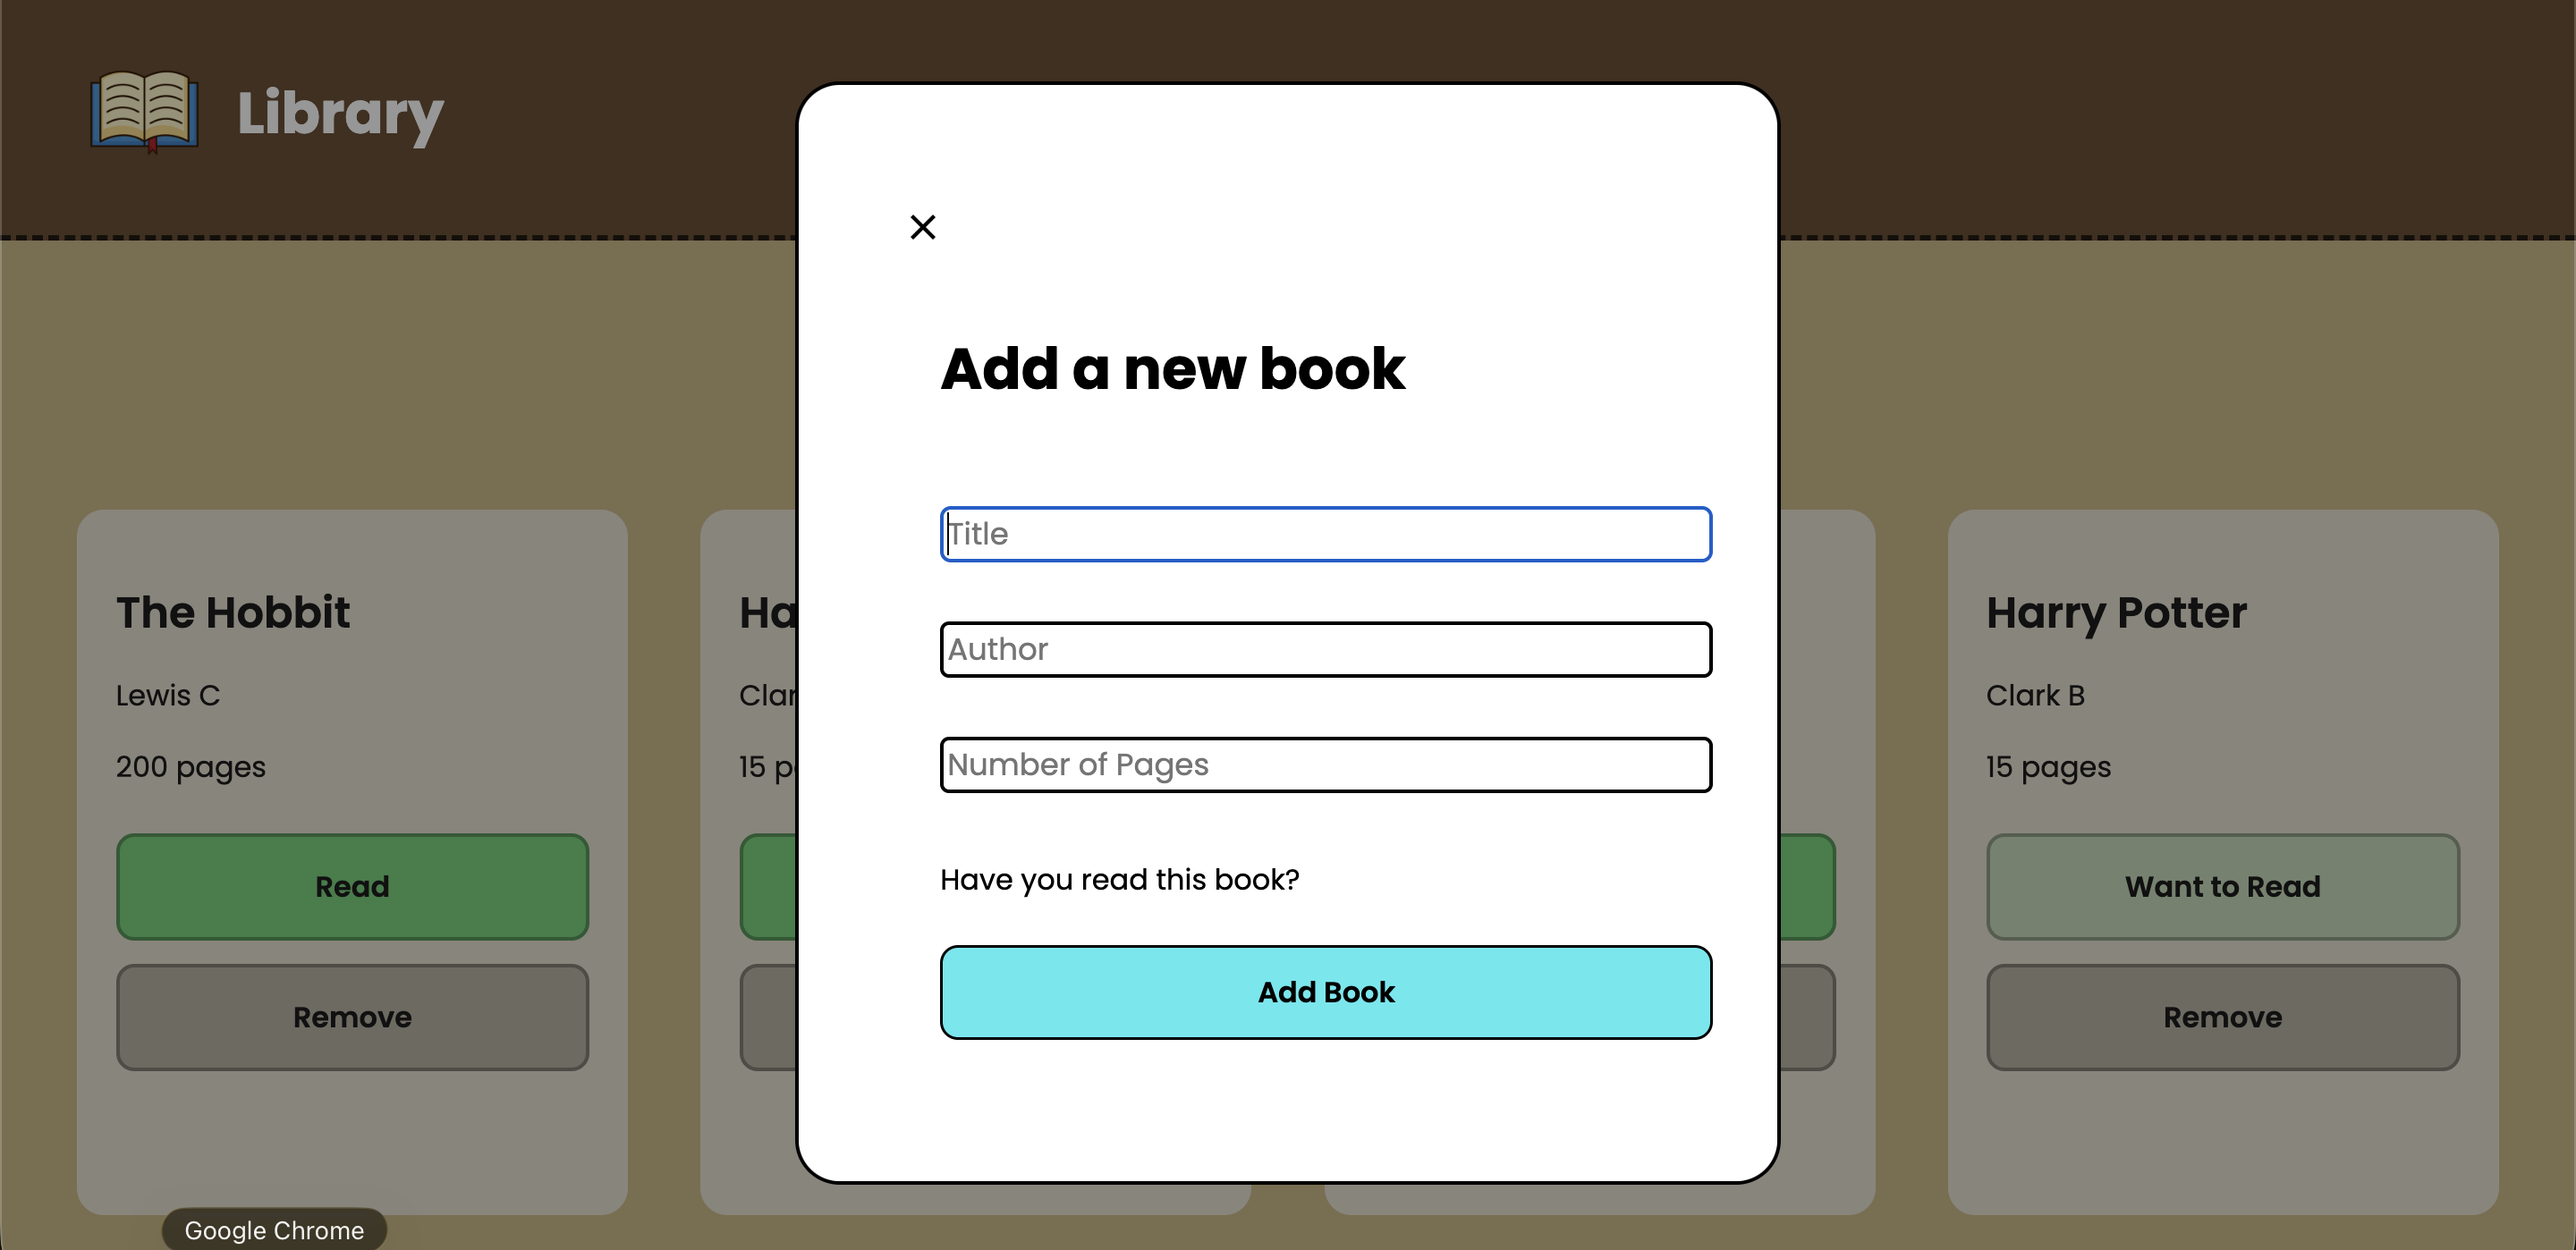
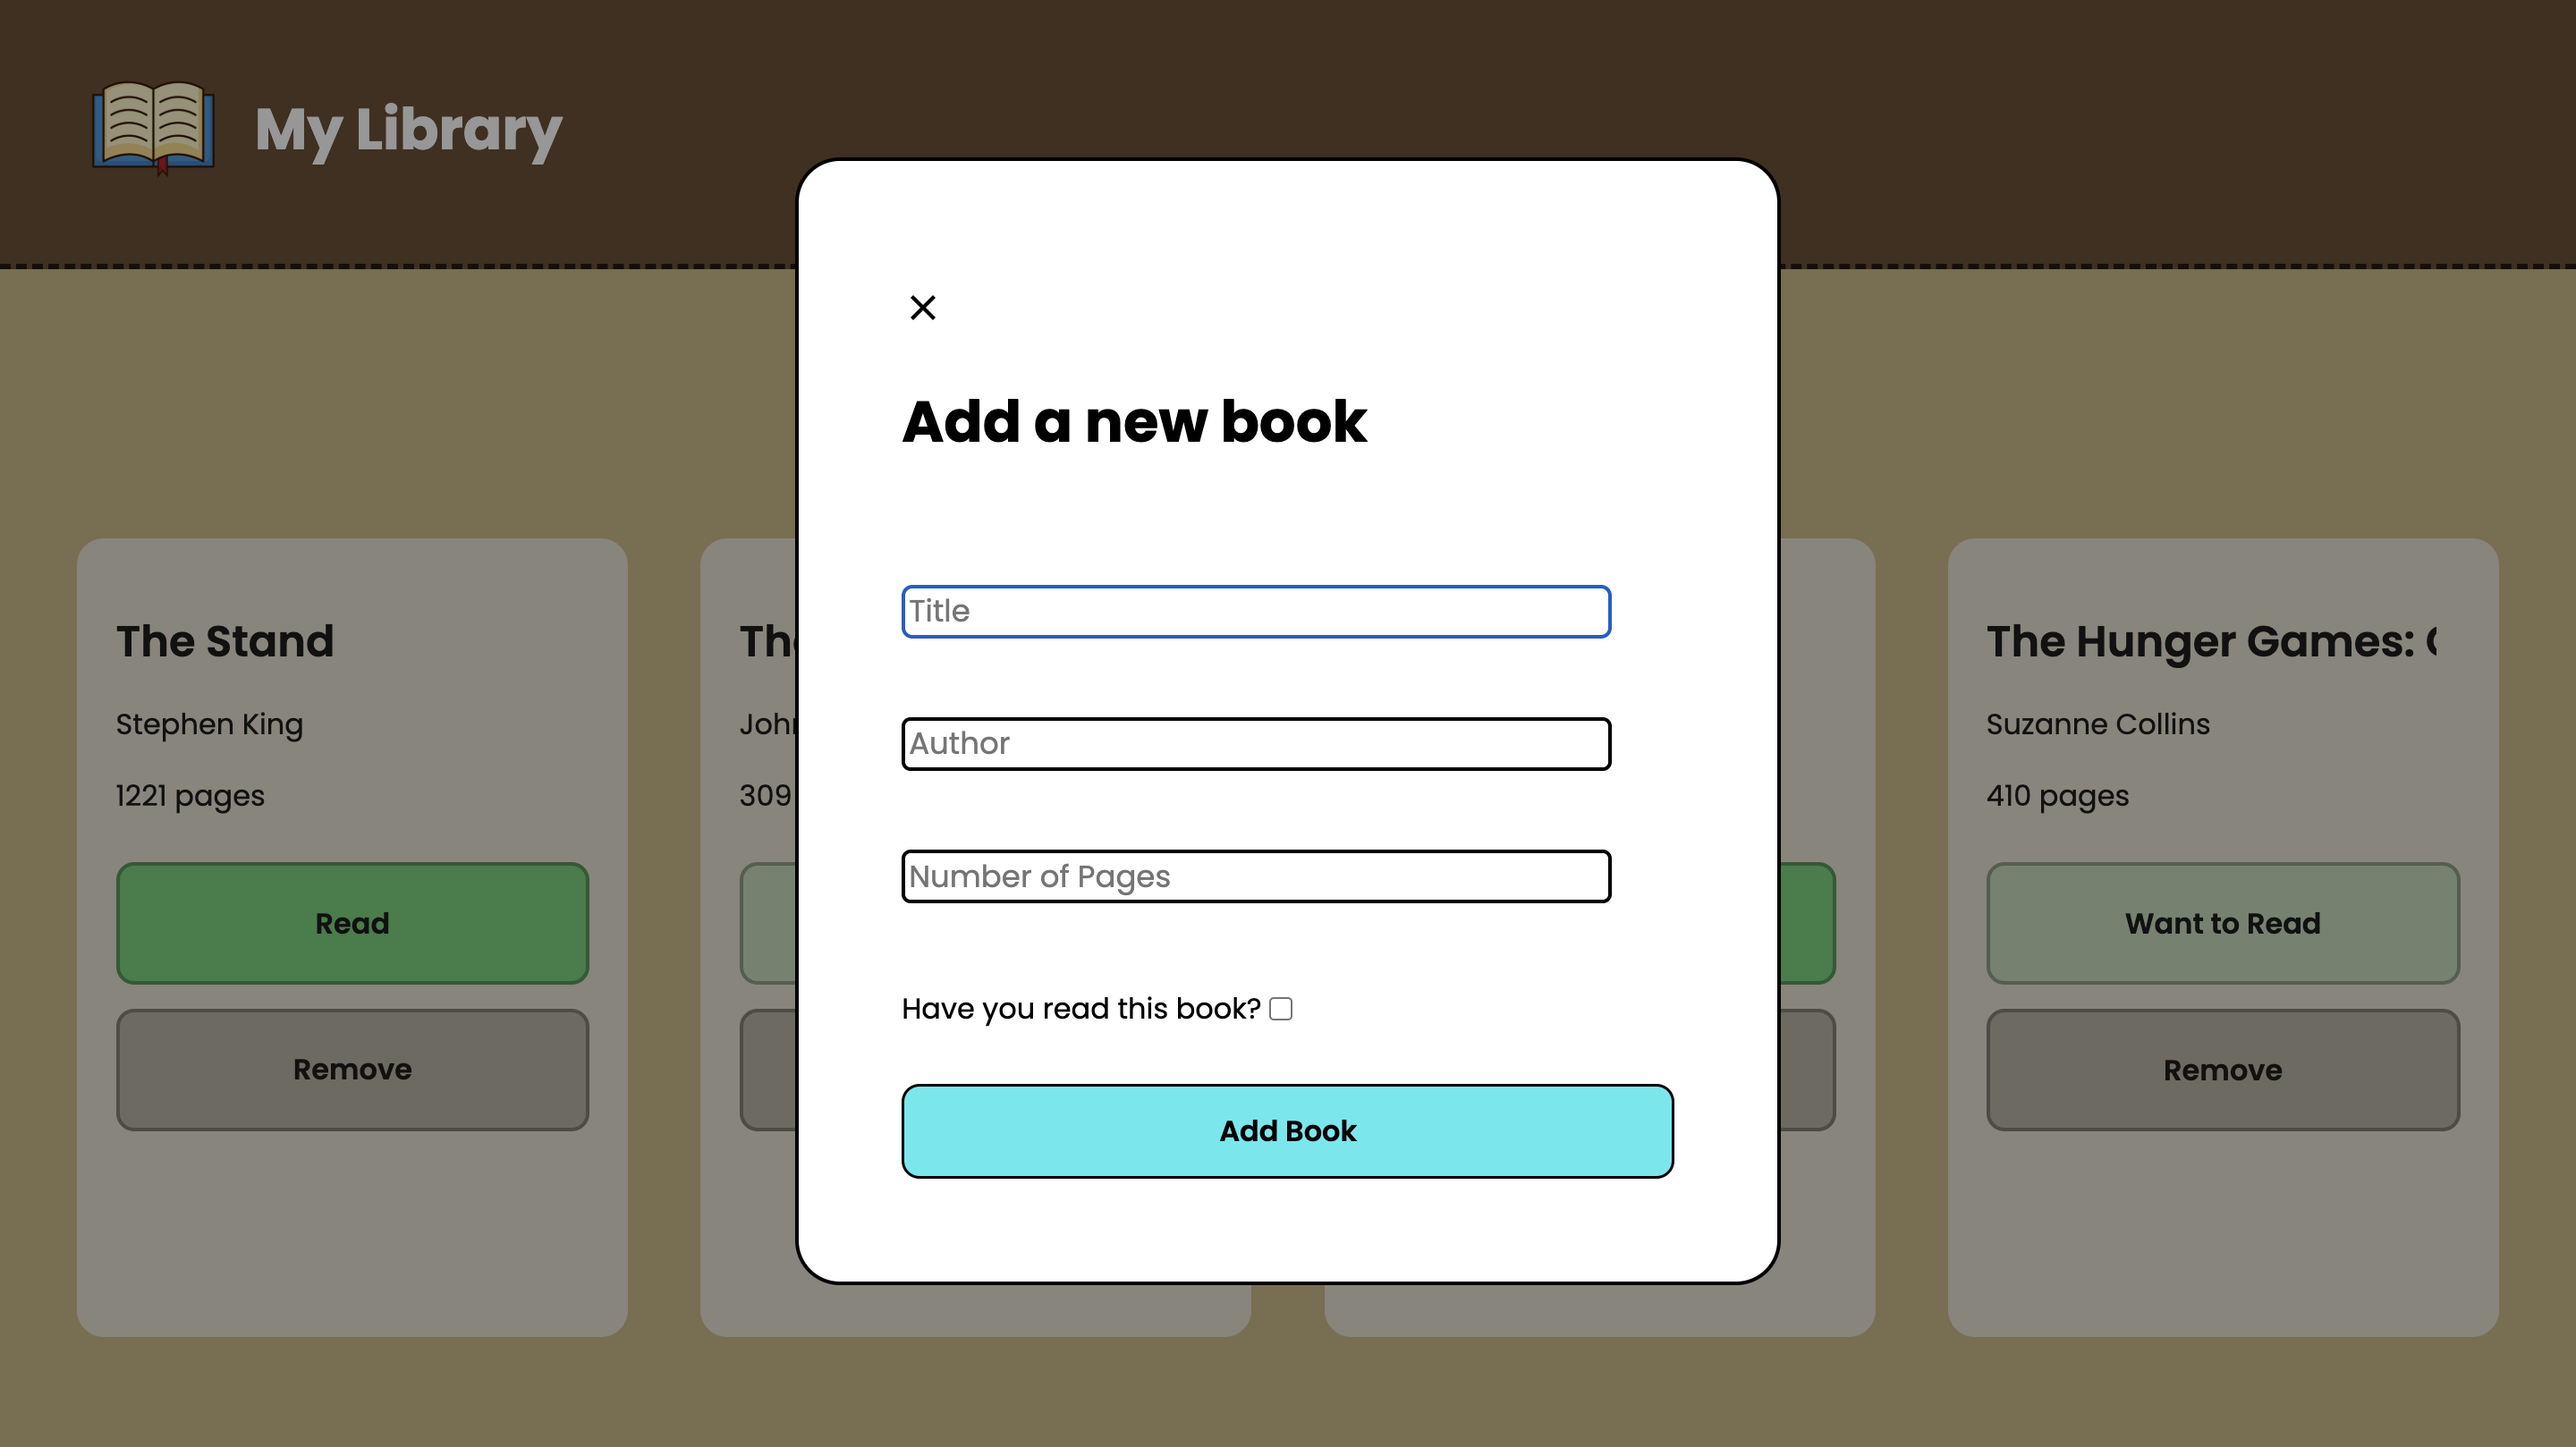
Refactor Book constructor function into a class

diff --git a/script.js b/script.js
@@ -5,37 +5,33 @@ function saveLibrary() {
 }
 
 function loadLibrary() {
-const libraryJSON = localStorage.getItem('myLibrary');
+  const libraryJSON = localStorage.getItem('myLibrary');
 
-if (libraryJSON) {
-  const savedBooks = JSON.parse(libraryJSON);
-  savedBooks.forEach(bookData => {
-    const book = new Book(bookData.title, bookData.author, bookData.totalPages, bookData.read);
-    book.id = bookData.id;
-    myLibrary.push(book);
-  });
-}
-
-else {
-  addBookToLibrary('The Stand', 'Stephen King', 1221, false);
-  addBookToLibrary('The Hobbit', 'John R. R. Tolkien', 309, true);
-  addBookToLibrary('Atomic Habits', 'James Clear', 319, true);
-  addBookToLibrary('Hunger Games: Catching Fire', 'Suzanne Collins', 410, false);
-}
-}
-
-// Constructs new book objects
-function Book(title, author, totalPages, read) {
-  // Throw error if function is not called with new
-  if (!new.target) {
-    throw Error("You must use the 'new' operator to call the constructor");
+  if (libraryJSON) {
+    const savedBooks = JSON.parse(libraryJSON);
+    savedBooks.forEach(bookData => {
+      const book = new Book(bookData.title, bookData.author, bookData.totalPages, bookData.read);
+      book.id = bookData.id;
+      myLibrary.push(book);
+    });
   }
 
-  // Store book data
-  this.title = title;
-  this.author = author;
-  this.totalPages = totalPages;
-  this.read = read; // Stores books read status
+  else {
+    addBookToLibrary('The Stand', 'Stephen King', 1221, true);
+    addBookToLibrary('The Hobbit', 'John R. R. Tolkien', 309, false);
+    addBookToLibrary('Atomic Habits', 'James Clear', 319, true);
+    addBookToLibrary('The Hunger Games: Catching Fire', 'Suzanne Collins', 410, false);
+  }
+}
+
+class Book {
+  constructor(title, author, totalPages, read) {
+    // Store book data
+    this.title = title;
+    this.author = author;
+    this.totalPages = totalPages;
+    this.read = read; // Stores books read status
+  }
 }
 
 // Creates a book object using the given parameters then pushes it to the end of the myLibrary array

diff --git a/styles.css b/styles.css
@@ -142,6 +142,7 @@ button {
 #checkbox-wrapper {
   display: flex;
   align-items: center;
+  gap: 4%;
 }
 
 #read-checkbox-input {

diff --git a/README.md b/README.md
@@ -21,6 +21,6 @@ This is a library page that allows you to log books you have read and keep track
 ---
 
 ### Connect With Me
-- [Email](jonnydevvs@gmail.com)
-- [GitHub](https://github.com/JonnyFPS)
+- [jonnydevvs@gmail.com](jonnydevvs@gmail.com)
+- [GitHub](https://github.com/jonny-berry)
 - [Twitter / X](https://x.com/jonnyDevvs)
